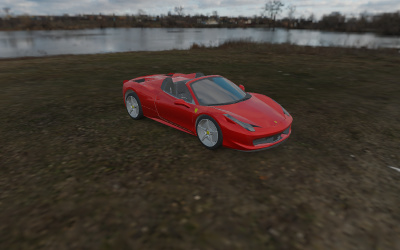
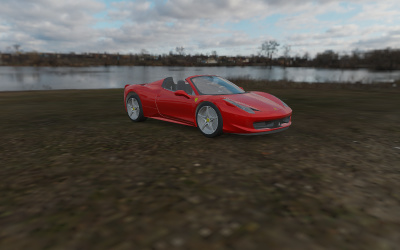
Examples: Clean up. (#24368)

diff --git a/examples/webgl_materials_envmaps_groundprojected.html b/examples/webgl_materials_envmaps_groundprojected.html
@@ -68,7 +68,7 @@
 					1,
 					1000
 				);
-				camera.position.set( - 16, 8, 16 );
+				camera.position.set( - 16, 4, 16 );
 
 				scene = new THREE.Scene();
 
